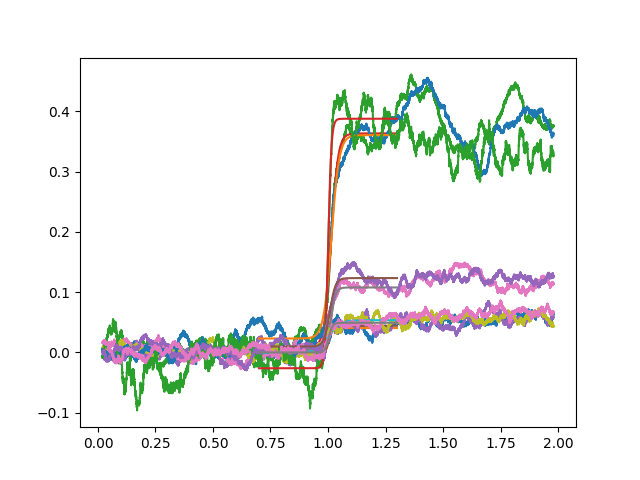
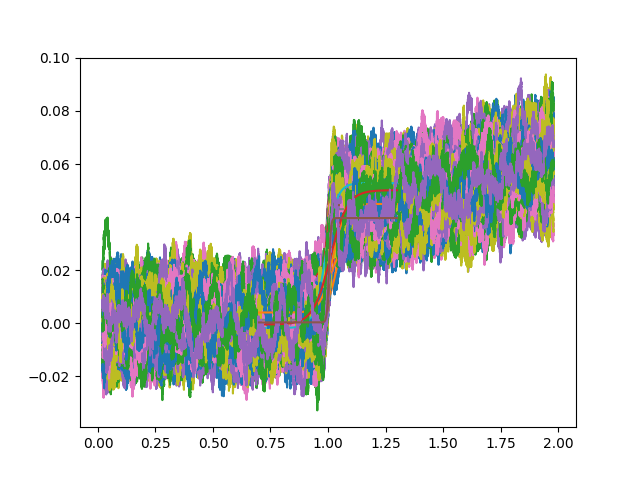
rewriting to plot strange

diff --git a/python/plot/plot_vary_speed.py b/python/plot/plot_vary_speed.py
@@ -47,8 +47,7 @@ def load_vs_normal_force():
     fig2, axs2 = plt.subplots(2)
     axs2 = axs2.ravel()
     axs = axs.ravel()
-    varyspeed = {1: (66526), 2:(55910,60930,14424), 3: (90254), 5:(72005,76229,37333), 7:(21702,77727,96687), 
-                 8: (48242), 10:(56649,11605,41397), 13: (63868)}
+    varyspeed = {2:(55910,60930,14424),5:(72005,76229,37333), 7:(21702,77727,96687), 10:(56649,11605,41397)}
 
 
     c = plt.cm.viridis((3 - np.arange(len(varyspeed)))/(3 - 0 + 0.01))
@@ -66,10 +65,10 @@ def load_vs_normal_force():
 
 
         
-        #for j,curve in enumerate(load_curves_all):
-        #    axs[i].plot(curve[:,0], curve[:,1], alpha = 0.4, c=c[j])
+        for j,curve in enumerate(load_curves_all):
+            axs[i].plot(curve[:,0], curve[:,1], alpha = 0.4, c=c[j])
         for j, max_static in enumerate(max_static_all):
-        #    axs[i].plot(max_static[0], max_static[1], 'bo')
+            axs[i].plot(max_static[0], max_static[1], 'bo')
             axs2[0].plot(vel, max_static[1], 'o', c=c[j])
         #axs2[0].plot(normforce, max_static_mean[1], '*', label='mean')
         for j,rise in enumerate(rise_all):
@@ -78,12 +77,12 @@ def load_vs_normal_force():
         axs2[0].legend()
 
     
-        #axs[i].plot(load_curves_mean[0,:,0], load_curves_mean[0,:,1], label = f'average')
-        #axs[i].legend()
-        #axs[i].set_xlabel(r"$t_p$ [ns]")
-        #axs[i].set_ylabel(r"$f$ [$\mu$N]")
-        #axs[i].set_title(f'velocity {vel} [m/s]')
-        #axs[i].set_ylim([-0.02, 0.14])
+        axs[i].plot(load_curves_mean[0,:,0], load_curves_mean[0,:,1], label = f'average')
+        axs[i].legend()
+        axs[i].set_xlabel(r"$t_p$ [ns]")
+        axs[i].set_ylabel(r"$f$ [$\mu$N]")
+        axs[i].set_title(f'velocity {vel} [m/s]')
+        axs[i].set_ylim([-0.02, 0.14])
 
     fig.suptitle(f"Load curves for the chess system with increasing top plate velocity")
     fig.tight_layout(pad=1.8)
@@ -91,7 +90,7 @@ def load_vs_normal_force():
     outname = 'vary_vel.png'
 
     print(f'saved fig to {fig_dir + outname}')
-    #fig.savefig(fig_dir + outname, dpi = 200)
+    fig.savefig(fig_dir + outname, dpi = 200)
 
     axs2[0].set_title('maximum static')
     axs2[1].set_title('slope of sigmoid fit')

diff --git a/python/plot/plot_asperity_distance.py b/python/plot/plot_asperity_distance.py
@@ -46,10 +46,9 @@ def plot_max_static_dist():
 
     fig, axs = plt.subplots(2, figsize=(10,10))
     axs = axs.ravel()
-
-    for i in range(300): #this code now works with producition
+    c = plt.cm.viridis(np.linspace(0, 1, 100))
+    for i in range(320): #this code now works with producition
         lc_files = glob(template_lc.format(temp, vel, force, asperities,orientation, i, grid[0], grid[1]))
-        print(lc_files)
         lc_file = lc_files[0]
 
         matches = re.findall('\d+', lc_file)
@@ -74,20 +73,17 @@ def plot_max_static_dist():
 
 
         matrix_norm = rip_norm(aux_dict['erratic'])
-        print('twat')
-        print(rise)
-        print(ms)
-        axs[0].plot(matrix_norm, rise, 'o', c='b')
-        axs[1].plot(matrix_norm, ms[1], 'o', c = 'b')
+        axs[0].plot(matrix_norm, rise, 'o', c = c[int(np.round(matrix_norm*10))])
+        axs[1].plot(matrix_norm, ms[1], 'o', c= c[int(np.round(matrix_norm*10))])
 
 
 
     axs[0].set_xlabel('norm of asperity distance')
-    axs[0].set_ylabel('rise of simoid fit')
+    axs[0].set_ylabel('slope of simoid fit')
     axs[1].set_xlabel('norm of asperity distance')
-    axs[1].set_ylabel('max static')
-    fig.suptitle(f"the rise and max static as a function of the norm of asperity distances, \n temp {temp}, force {force}, vel {vel}, asperities {asperities}, orientation {orientation}")
-    fig.savefig(fig_dir + 'png/asperity_distance_v_maxstatic.png', dpi = 150)
+    axs[1].set_ylabel('maximum static friction')
+    fig.suptitle(f"the slope and maximum static friction as a function of the norm of asperity distances, \n temp {temp}, force {force}, vel {vel}, asperities {asperities}, orientation {orientation}")
+    fig.savefig(fig_dir + 'png/asperity_distance_v_maxstatic.png', dpi = 200)
 
 if __name__ == '__main__':
     plot_max_static_dist()

diff --git a/python/plot/plot_utils.py b/python/plot/plot_utils.py
@@ -33,7 +33,7 @@ def test_rip_norm():
     a = np.array(([[0,0,0,0,],[0,1,1,0],[0,0,0,0],[0,0,0,0]]))
     assert rip_norm(a) ==1
 
-def fit_sigmoid(load_curve, fig, axs):
+def fit_sigmoid(load_curve, fig, axs, c = False):
     '''
     https://docs.scipy.org/doc/scipy/reference/generated/scipy.optimize.curve_fit.html
     https://stackoverflow.com/questions/55725139/fit-sigmoid-function-s-shape-curve-to-data-using-python
@@ -74,9 +74,13 @@ def fit_sigmoid(load_curve, fig, axs):
     polfit_data2 = np.array((time_nnan[midriff_start_indx:midriff_stop_indx],
                             load_curve_nnan[midriff_start_indx:midriff_stop_indx])).T
 
-    rise, intersect = np.polyfit(polfit_data2[:,0], polfit_data2[:,1], 1)
 
-    axs.plot(time_nnan, sigmoid(time_nnan, *popt))
+    rise, intersect = np.polyfit(polfit_data2[:,0], polfit_data2[:,1], 1)
+    
+    if c.any():
+        axs.plot(time_nnan, sigmoid(time_nnan, *popt), c= c, linewidth = 2)
+    else:
+        axs.plot(time_nnan, sigmoid(time_nnan, *popt))
 
     return 1
 

diff --git a/python/post/get_load_curves.py b/python/post/get_load_curves.py
@@ -78,7 +78,7 @@ def all_curves(production = True):
 
     if production: #beware /datset here
         force = 0
-        filetemplate = f'../../simulations/sys_asp{asperities}_uc{uc}/production/sim_temp{temp}_force{force}_asp{asperities}_or{orientation}_time*_initnum*_seed*_errgrid4_4/log.lammps'
+        filetemplate = f'../../simulations/sys_asp{asperities}_uc{uc}/production/dataset/sim_temp{temp}_force{force}_asp{asperities}_or{orientation}_time*_initnum*_seed*_errgrid4_4/log.lammps'
     else:
         filetemplate = f'../../simulations/sys_asp{asperities}_uc{uc}/vary_normforce/sim_temp{temp}_force*_asp{asperities}_or{orientation}_time{time}_seed*_errgrid4_4/log.lammps'
 
@@ -121,4 +121,4 @@ def all_curves(production = True):
 
 if __name__ == '__main__':
     #get_load_curves()
-    all_curves(production = False)
+    all_curves(production = True)
